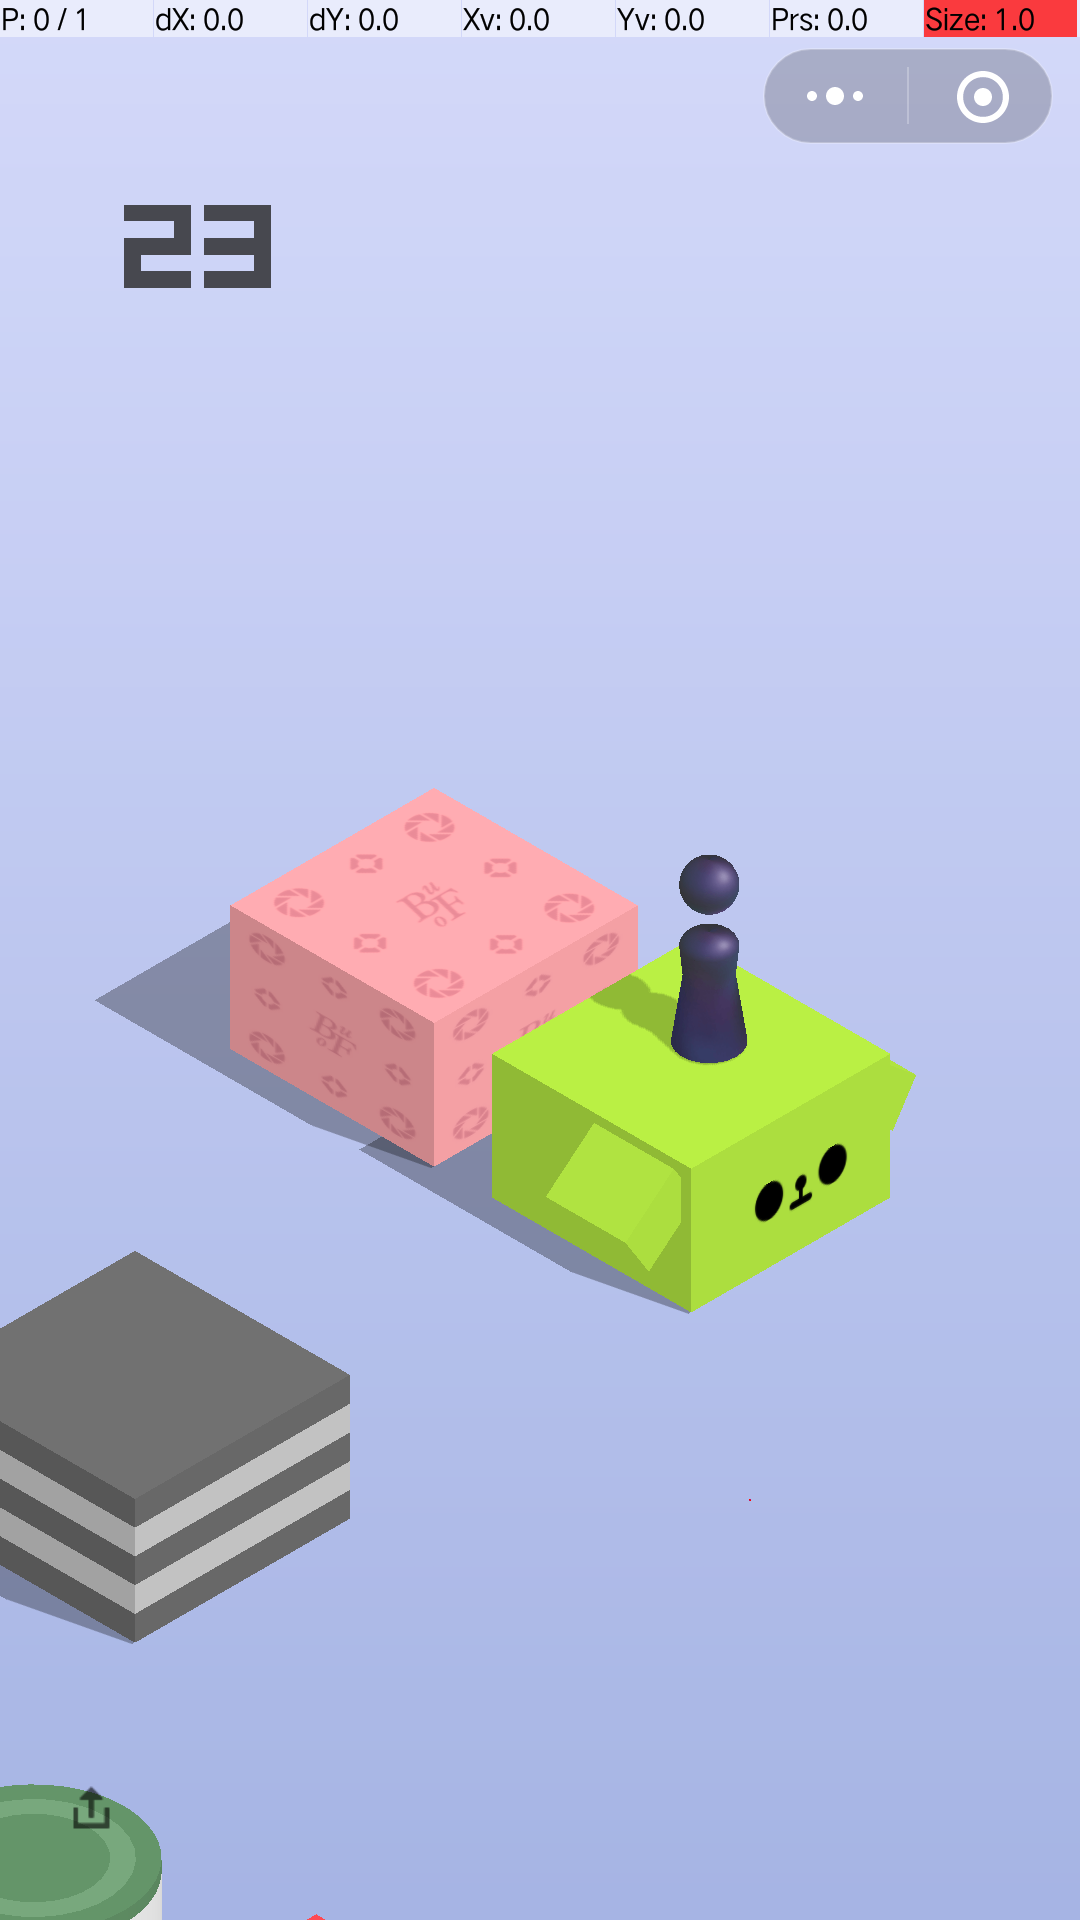
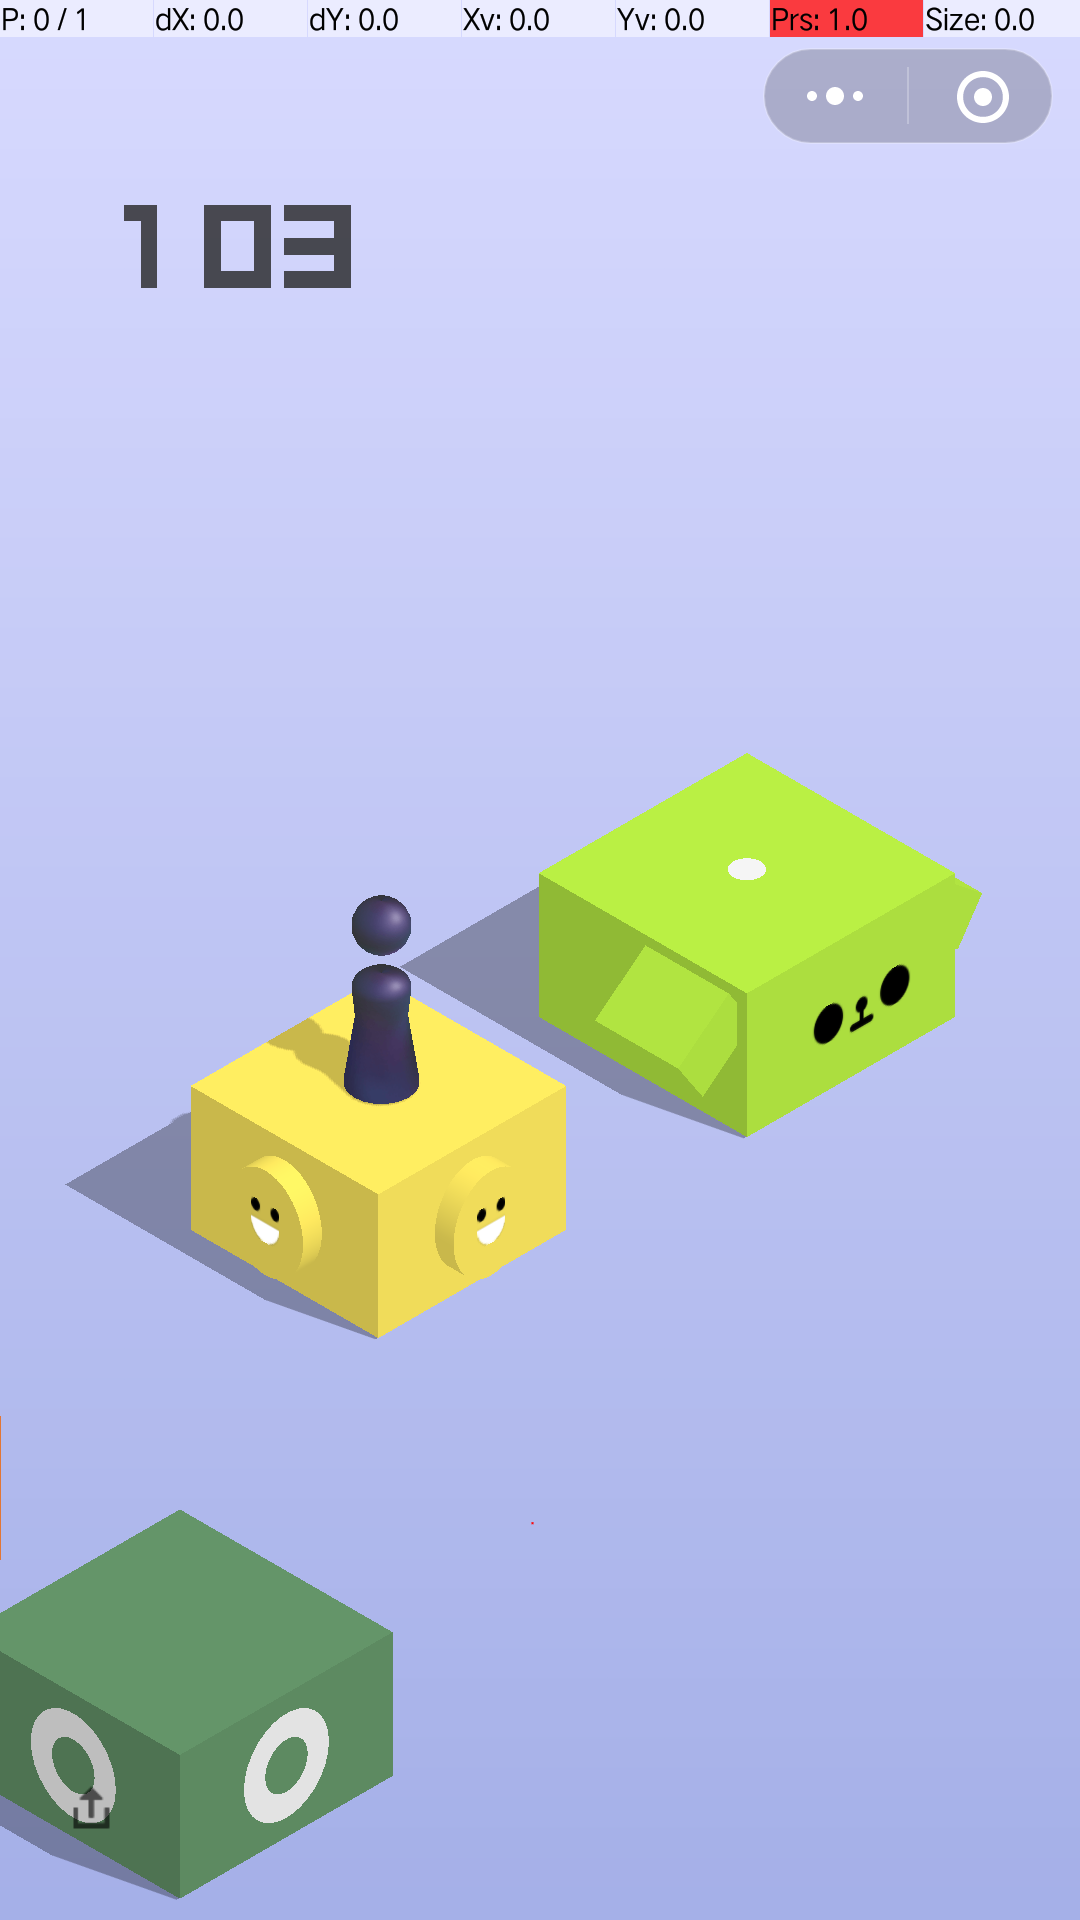
新增显示调试画面

Changed region(s): [[0.0, 0.375, 0.9167, 1.0], [0.0917, 0.0938, 0.3361, 0.1562], [0.7028, 0.0, 1.0, 0.0312]]

diff --git a/jump_play.py b/jump_play.py
@@ -48,7 +48,7 @@ def find_location():
 
     cv2.imwrite('last.png', img_rgb)
 
-    return center1_loc[0], center1_loc[1], x_center, y_center
+    return img_rgb, center1_loc[0], center1_loc[1], x_center, y_center
 
 
 def get_center(img_canny, H):
@@ -57,7 +57,7 @@ def get_center(img_canny, H):
     y_top = np.nonzero([max(row) for row in img_canny[500:]])[0][0] + 500
     x_top = int(np.mean(np.nonzero(img_canny[y_top])))
 
-    y_bottom = y_top + 150
+    y_bottom = y_top + 150 # 应对花纹木纹等非纯色平面，默认一个至少150的高
     for row in range(y_bottom, H):
         if img_canny[row, x_top] != 0:
             y_bottom = row
@@ -65,6 +65,7 @@ def get_center(img_canny, H):
 
     x_center, y_center = x_top, (y_top + y_bottom) // 2
     return img_canny, x_center, y_center
+
 
 def jump(distance):
     print('distance: %s' % distance)
@@ -82,13 +83,19 @@ def main():
     while True:
         pull_screenshot()
 
-        piece_x, piece_y, board_x, board_y = find_location()
+        img, piece_x, piece_y, board_x, board_y = find_location()
 
         distance = math.sqrt((piece_x-board_x) ** 2 + (piece_y-board_y) ** 2)
 
         jump(distance)
 
         time.sleep(random.uniform(0.9, 1.2))
+
+        h, w = img.shape[:2]
+        res = cv2.resize(img, (int(w/3), int(h/3)), interpolation = cv2.INTER_CUBIC)
+        cv2.imshow('frame', res)
+        if cv2.waitKey(1) == ord('q'):
+            break
 
 # img_playground = cv2.resize(img_playground, (int(width/3), int(height/3)), interpolation = cv2.INTER_CUBIC)
 
